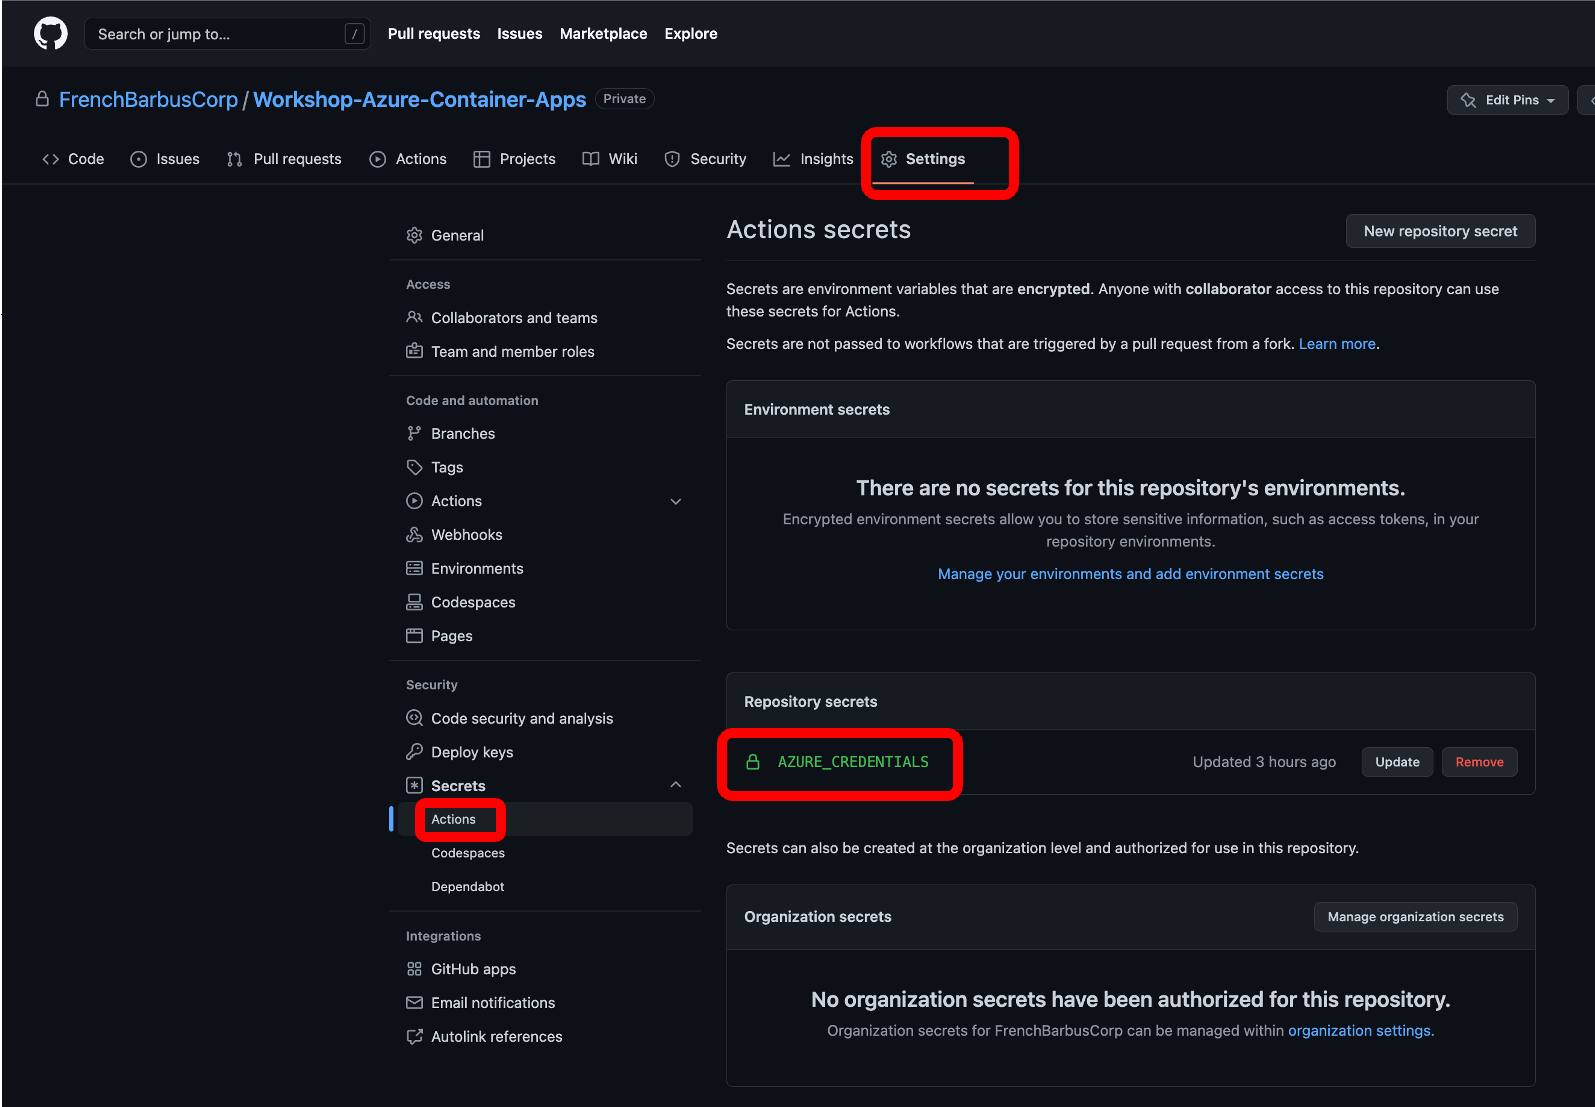
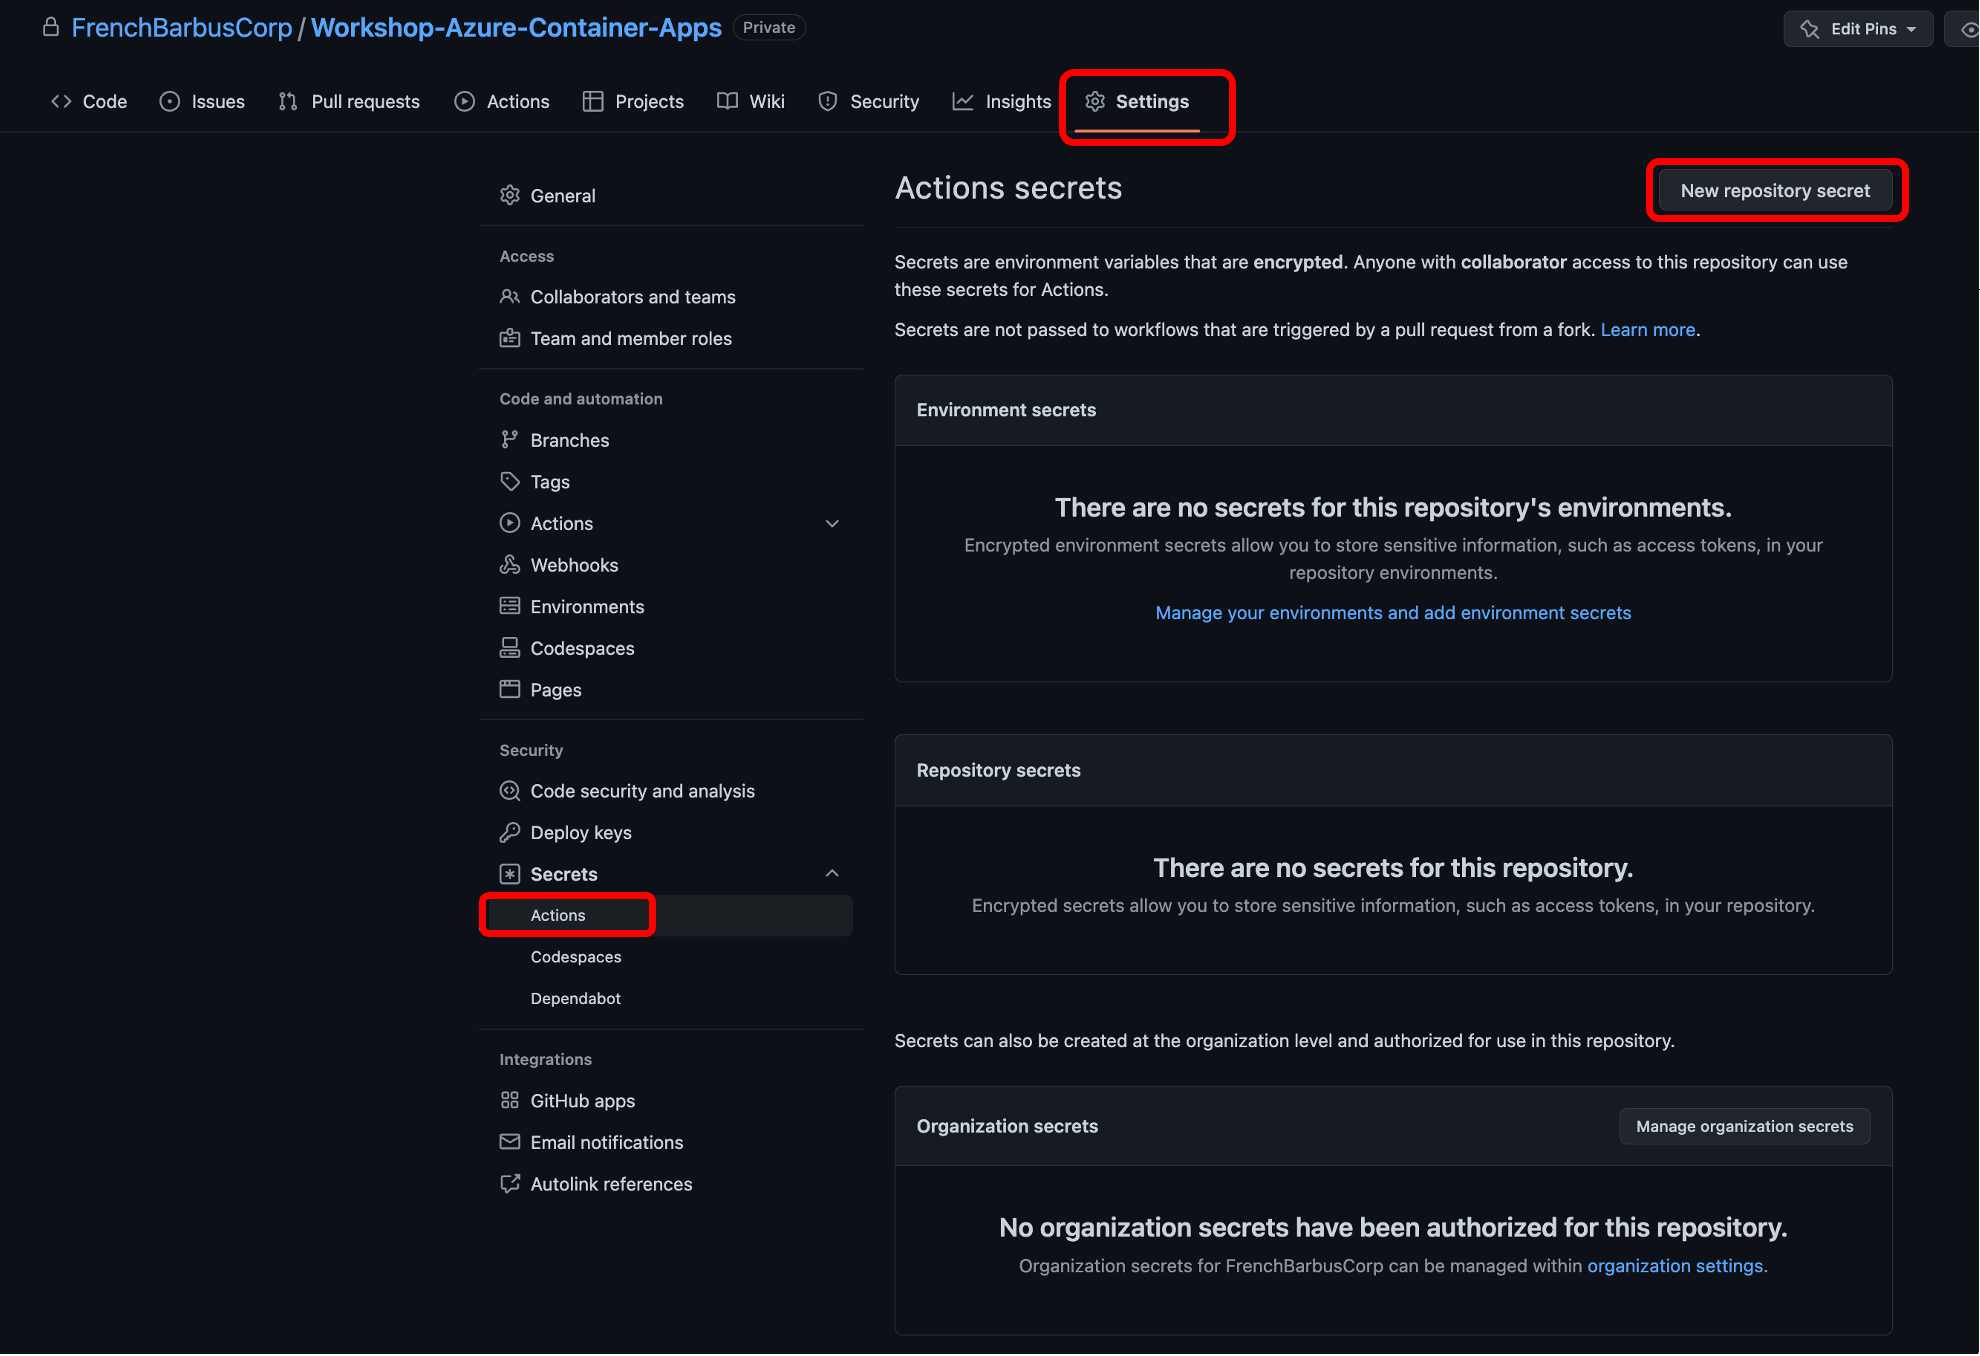
README.md Lab_3

diff --git a/Lab_3/README.md b/Lab_3/README.md
@@ -21,6 +21,10 @@ Gardez cette structure:<br>
 ```
 Dans GitHub, allez dans le service secret:<br>
 <img width='800' src='../images/Lab_3/Lab_3_00.png'/><br>
+Dans le service secret, créez un secret "AZURE_CREDENTIALS"<br>
+Et mettez le "Service Principal" comme ci-dessous:<br>
+<img width='800' src='../images/Lab_3/Lab_3_01.png'/><br>
+
 
 
 
